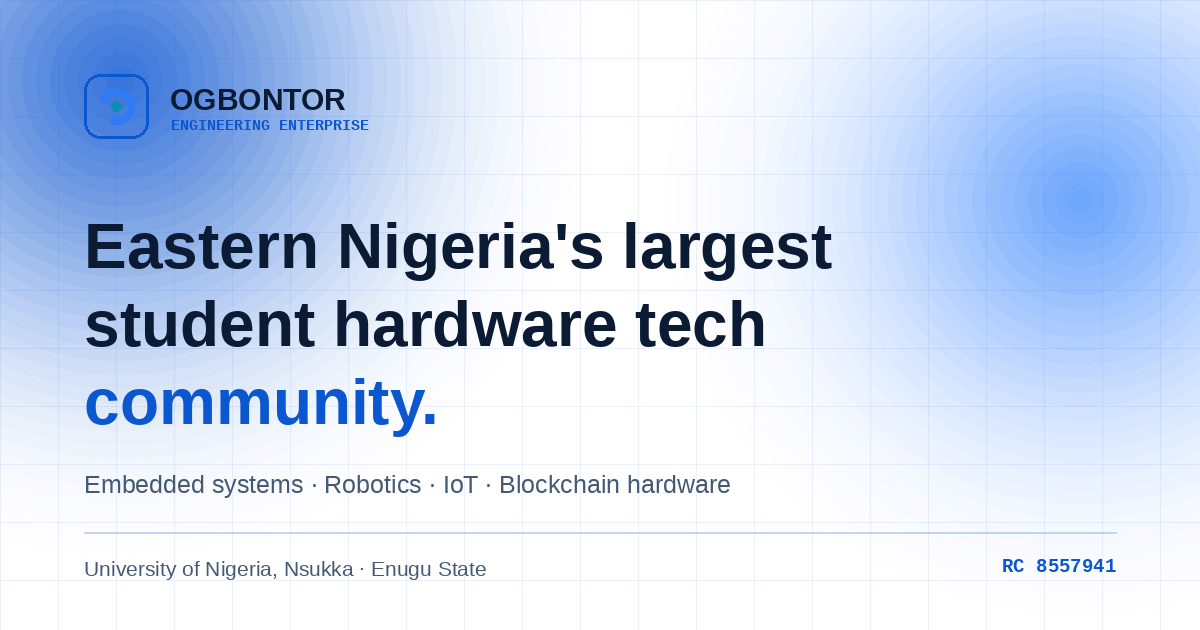
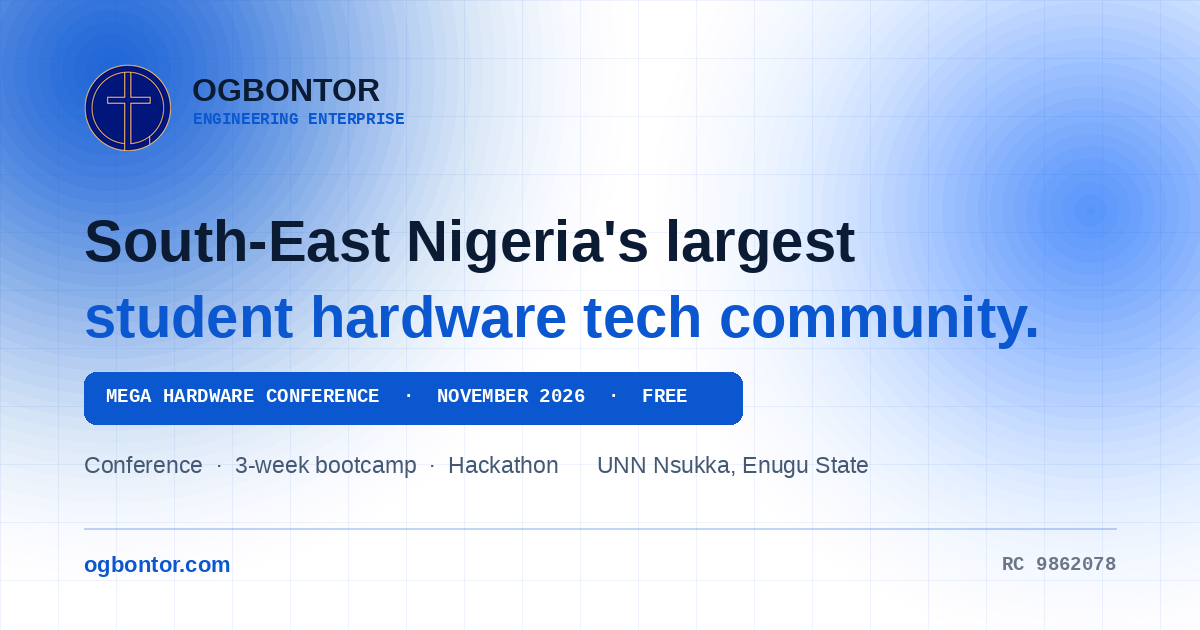
Rebuild the link-preview card, widen two portraits, add netlify.toml
The OG card was wrong in two ways that would show on every shared link: it said
'Eastern Nigeria' and carried the old RC 8557941. Rebuilt with the real logo,
South-East wording, RC 9862078 and the November programme.

- og:image:secure_url and og:image:type added for stricter crawlers
- Theophilus and Elsie re-cropped wider to match Bright's framing; Elsie's frame
  extended with a feathered blur so she sits smaller without a hard seam
- netlify.toml declares the publish root explicitly and stops the preview card
  being cached for a year

diff --git a/register.html b/register.html
@@ -13,6 +13,8 @@
 <meta property="og:description" content="Register free for Africa's Hardware Revolution: From Spark to Ignition — a free hardware bootcamp at UNN Nsukka covering robotics, embedded systems, IoT, PCB design, CAD, edge AI, 3D printing and more.">
 <meta property="og:url" content="https://ogbontor.com/register.html">
 <meta property="og:image" content="https://ogbontor.com/assets/img/og-image.png">
+<meta property="og:image:secure_url" content="https://ogbontor.com/assets/img/og-image.png">
+<meta property="og:image:type" content="image/png">
 <meta property="og:image:width" content="1200">
 <meta property="og:image:height" content="630">
 <meta property="og:image:alt" content="Ogbontor Engineering Enterprise — South-East Nigeria's largest student hardware tech community">

diff --git a/projects.html b/projects.html
@@ -13,6 +13,8 @@
 <meta property="og:description" content="Fourteen hardware systems from our student members: CNG Protect, the Joint-Agent IoT-blockchain board, solar power measurement, terrain-climbing robots, assistive tech and medical instrumentation.">
 <meta property="og:url" content="https://ogbontor.com/projects.html">
 <meta property="og:image" content="https://ogbontor.com/assets/img/og-image.png">
+<meta property="og:image:secure_url" content="https://ogbontor.com/assets/img/og-image.png">
+<meta property="og:image:type" content="image/png">
 <meta property="og:image:width" content="1200">
 <meta property="og:image:height" content="630">
 <meta property="og:image:alt" content="Ogbontor Engineering Enterprise — South-East Nigeria's largest student hardware tech community">

diff --git a/index.html b/index.html
@@ -13,6 +13,8 @@
 <meta property="og:description" content="Ogbontor Engineering Enterprise is the largest student hardware tech community in South-East Nigeria — training students in embedded systems, robotics, IoT and blockchain hardware at UNN Nsukka.">
 <meta property="og:url" content="https://ogbontor.com/index.html">
 <meta property="og:image" content="https://ogbontor.com/assets/img/og-image.png">
+<meta property="og:image:secure_url" content="https://ogbontor.com/assets/img/og-image.png">
+<meta property="og:image:type" content="image/png">
 <meta property="og:image:width" content="1200">
 <meta property="og:image:height" content="630">
 <meta property="og:image:alt" content="Ogbontor Engineering Enterprise — South-East Nigeria's largest student hardware tech community">

diff --git a/programs.html b/programs.html
@@ -13,6 +13,8 @@
 <meta property="og:description" content="A 19-module hardware engineering curriculum across five tiers — embedded systems, robotics, IoT, FPGA, edge AI and CAD — taught as hands-on cohort bootcamps in Nsukka.">
 <meta property="og:url" content="https://ogbontor.com/programs.html">
 <meta property="og:image" content="https://ogbontor.com/assets/img/og-image.png">
+<meta property="og:image:secure_url" content="https://ogbontor.com/assets/img/og-image.png">
+<meta property="og:image:type" content="image/png">
 <meta property="og:image:width" content="1200">
 <meta property="og:image:height" content="630">
 <meta property="og:image:alt" content="Ogbontor Engineering Enterprise — South-East Nigeria's largest student hardware tech community">

diff --git a/contact.html b/contact.html
@@ -13,6 +13,8 @@
 <meta property="og:description" content="Reach Ogbontor Engineering Enterprise: victorogbonna313@gmail.com, +234 903 6494 405, or the WhatsApp community. Lab at the University of Nigeria, Nsukka, Enugu State.">
 <meta property="og:url" content="https://ogbontor.com/contact.html">
 <meta property="og:image" content="https://ogbontor.com/assets/img/og-image.png">
+<meta property="og:image:secure_url" content="https://ogbontor.com/assets/img/og-image.png">
+<meta property="og:image:type" content="image/png">
 <meta property="og:image:width" content="1200">
 <meta property="og:image:height" content="630">
 <meta property="og:image:alt" content="Ogbontor Engineering Enterprise — South-East Nigeria's largest student hardware tech community">

diff --git a/community.html b/community.html
@@ -13,6 +13,8 @@
 <meta property="og:description" content="Build nights, study groups, mentorship, a component library and project teams at the largest student hardware tech community in South-East Nigeria. Free to join.">
 <meta property="og:url" content="https://ogbontor.com/community.html">
 <meta property="og:image" content="https://ogbontor.com/assets/img/og-image.png">
+<meta property="og:image:secure_url" content="https://ogbontor.com/assets/img/og-image.png">
+<meta property="og:image:type" content="image/png">
 <meta property="og:image:width" content="1200">
 <meta property="og:image:height" content="630">
 <meta property="og:image:alt" content="Ogbontor Engineering Enterprise — South-East Nigeria's largest student hardware tech community">

diff --git a/about.html b/about.html
@@ -13,6 +13,8 @@
 <meta property="og:description" content="Who we are: a hardware technology enterprise and the largest student hardware tech community in South-East Nigeria, based at the University of Nigeria, Nsukka.">
 <meta property="og:url" content="https://ogbontor.com/about.html">
 <meta property="og:image" content="https://ogbontor.com/assets/img/og-image.png">
+<meta property="og:image:secure_url" content="https://ogbontor.com/assets/img/og-image.png">
+<meta property="og:image:type" content="image/png">
 <meta property="og:image:width" content="1200">
 <meta property="og:image:height" content="630">
 <meta property="og:image:alt" content="Ogbontor Engineering Enterprise — South-East Nigeria's largest student hardware tech community">

diff --git a/tools/build.py b/tools/build.py
@@ -165,6 +165,8 @@ def head(title, desc, page):
 <meta property="og:description" content="{desc}">
 <meta property="og:url" content="{SITE_URL}/{page}">
 <meta property="og:image" content="{SITE_URL}/assets/img/og-image.png">
+<meta property="og:image:secure_url" content="{SITE_URL}/assets/img/og-image.png">
+<meta property="og:image:type" content="image/png">
 <meta property="og:image:width" content="1200">
 <meta property="og:image:height" content="630">
 <meta property="og:image:alt" content="{ORG} — South-East Nigeria's largest student hardware tech community">
